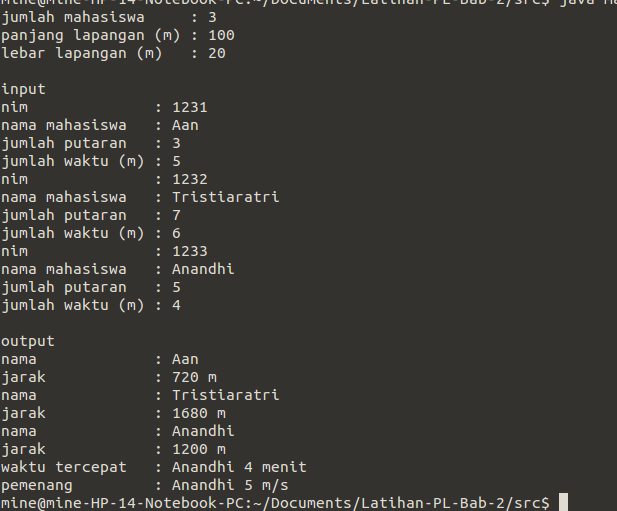
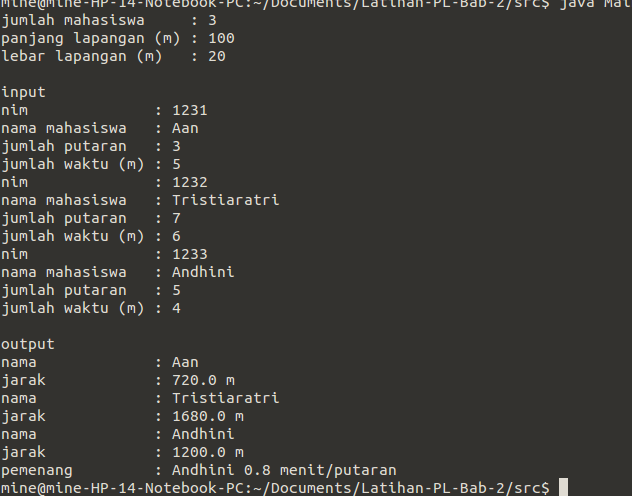
update sourcecode, update screenshot

Changed region(s): [[0.0, 0.1512, 0.9238, 1.0], [0.0, 0.0, 1.0, 0.1512]]

diff --git a/src/Mahasiswa.java b/src/Mahasiswa.java
@@ -1,121 +1,54 @@
 public class Mahasiswa{
-	private int jumlah_mahasiswa;
-	private String[] nama_mahasiswa = new String[1000];
-	private long[] nim = new long[1000];
-	private int[] jumlahPutaran = new int[1000];
-	private int[] jumlahWaktu = new int[1000];
-<<<<<<< HEAD
-    private final int[] jarak = new int[1000];
-    private final int[] kecepatan = new int[1000];
-	private int cekWaktu;
-	private int cekKecepatan;
-	
-	public Mahasiswa(String[] nama, long[] nim, int[] putaran, int[] waktu){
+    private int jumlah_mahasiswa;       
+    private String[] nama_mahasiswa = new String[1000];
+    private long[] nim = new long[1000];
+    private double[] jumlahPutaran = new double[1000];
+    private double[] jumlahWaktu = new double[1000];
+    private double[] jarak = new double[1000];
+	/*private double[] kecepatan = new double[1000];*/
+    private double[] waktuTercepat = new double[1000];
+    private double cekWaktu;
+    
+    public Mahasiswa(String[] nama, long[] nim, double[] putaran, double[] waktu){
         nama_mahasiswa = nama;
         this.nim = nim;
         jumlahPutaran = putaran;
-		jumlahWaktu = waktu;
-	}
-	public void Jarak(){
+        jumlahWaktu = waktu;
+    }
+    public void Jarak(){
+        for(int i=0; i<nim.length; i++){
+            jarak[i] = Lapangan.getKeliling()*jumlahPutaran[i];
+        }
+    }
+	/*public void kecepatan(){
 		for(int i=0; i<nim.length; i++){
-			jarak[i] = Lapangan.getKeliling()*jumlahPutaran[i];
-		}
-	}
-	public void Kecepatan(){
-		for(int i=0; i<nim.length; i++){
-                kecepatan[i] = jarak[i]/(jumlahWaktu[i]*60);
-			}
-	}
-	public String waktuTercepat(){
-		cekWaktu = jumlahWaktu[0];
+            kecepatan[i] = jarak[i]/jumlahWaktu[i];
+        }
+	}*/
+    public void waktuTercepat(){
+        for(int i=0; i<nim.length; i++){
+            waktuTercepat[i] = jumlahWaktu[i]/jumlahPutaran[i];
+        }
+    }
+    public String pemenang(){
+        cekWaktu = waktuTercepat[0];
 		String cek = "";
         for(int i=0; i<nim.length; i++){
-			if(jumlahWaktu[i]<cekWaktu){
-				cekWaktu = jumlahWaktu[i];
-                if(jumlahWaktu[i]==cekWaktu){
-					cek = nama_mahasiswa[i]; 
-				}
-            }
-		}
-		return cek;
-	}
-	public String pemenang(){
-		cekKecepatan = kecepatan[0];
-        String cek = "";
-        for(int i=0; i<nim.length; i++){
-			if(kecepatan[i]>cekKecepatan){
-                cekKecepatan = kecepatan[i];
-                if(kecepatan[i]==cekKecepatan){
-					cek = nama_mahasiswa[i];
+            if(waktuTercepat[i]<cekWaktu){
+                cekWaktu = waktuTercepat[i];
+                if(waktuTercepat[i]==cekWaktu){
+                    cek = nama_mahasiswa[i]; 
                 }
             }
         }
         return cek;
     }
-	public void displayData(){
+    public void displayData(){
         for(int i=0; i<nim.length; i++){
-			System.out.println("nama             : "+nama_mahasiswa[i]);
+            System.out.println("nama             : "+nama_mahasiswa[i]);
             System.out.println("jarak            : "+jarak[i]+" m");
         }
-        System.out.println("waktu tercepat   : "+waktuTercepat()+" "+cekWaktu+" menit");
-		System.out.println("pemenang         : "+pemenang()+" "+cekKecepatan+" m/s");
-	}
+        System.out.println("pemenang         : "+pemenang()+" "+cekWaktu+" menit/putaran");
+    }
 	
 }
-=======
-        private final int[] jarak = new int[1000];
-        private final int[] kecepatan = new int[1000];
-	
-	public Mahasiswa(String[] nama, long[] nim, int[] putaran, int[] waktu){
-            nama_mahasiswa = nama;
-            this.nim = nim;
-            jumlahPutaran = putaran;
-            jumlahWaktu = waktu;
-	}
-	public void Jarak(){
-            for(int i=0; i<nim.length; i++){
-                jarak[i] = Lapangan.getKeliling()*jumlahPutaran[i];
-            }
-	}
-        public void Kecepatan(){
-            for(int i=0; i<nim.length; i++){
-                kecepatan[i] = jarak[i]/jumlahWaktu[i];
-            }
-        }
-        public String waktuTercepat(){
-            int cek = jumlahWaktu[0];
-            String cek2 = "";
-            for(int i=0; i<nim.length; i++){
-                if(jumlahWaktu[i]<cek){
-                    cek = jumlahWaktu[i];
-                    if(jumlahWaktu[i]==cek){
-                       cek2 = nama_mahasiswa[i]; 
-                    }
-                }
-            }
-            return cek2;
-        }
-        public String pemenang(){
-            int cek = kecepatan[0];
-            String cek2 = "";
-            for(int i=0; i<nim.length; i++){
-                if(kecepatan[i]>cek){
-                    cek = kecepatan[i];
-                    if(kecepatan[i]==cek){
-                        cek2 = nama_mahasiswa[1];
-                    }
-                }
-            }
-            return cek2;
-        }
-	public void displayData(){
-            for(int i=0; i<nim.length; i++){
-                System.out.println("nama            : "+nama_mahasiswa[i]);
-                System.out.println("jarak           : "+jarak[i]);
-            }
-            System.out.println("waktu tercepat  : "+waktuTercepat());
-            System.out.println("pemenang        : "+pemenang());
-	}
-		
-}
->>>>>>> 8ad04bca624a7c9d5d0246be0e42f95657db7afc

diff --git a/src/MainMahasiswa.java b/src/MainMahasiswa.java
@@ -3,29 +3,17 @@ import java.util.Scanner;
 public class MainMahasiswa{
     public static void main(String[] args){
     	Scanner in = new Scanner(System.in);
-<<<<<<< HEAD
 	System.out.print("jumlah mahasiswa     : ");
 	int jm = in.nextInt();
 	System.out.print("panjang lapangan (m) : ");
 	Lapangan.setPanjang(in.nextInt());
 	System.out.print("lebar lapangan (m)   : ");
-=======
-	System.out.print("jumlah mahasiswa : ");
-	int jm = in.nextInt();
-	System.out.print("panjang lapangan : ");
-	Lapangan.setPanjang(in.nextInt());
-	System.out.print("lebar lapangan   : ");
->>>>>>> 8ad04bca624a7c9d5d0246be0e42f95657db7afc
 	Lapangan.setLebar(in.nextInt());
 	in.nextLine();
         String[] nama = new String[jm];
         long[] nim = new long[jm];
-        int[] jumlahputaran = new int[jm], jumlahwaktu = new int[jm];
-<<<<<<< HEAD
+        double[] jumlahputaran = new double[jm], jumlahwaktu = new double[jm];
 	System.out.println("\ninput ");
-=======
-	System.out.println("input ");
->>>>>>> 8ad04bca624a7c9d5d0246be0e42f95657db7afc
 	for(int i=0; i<jm; i++){
             System.out.print("nim              : ");
             nim[i] = in.nextLong();
@@ -33,26 +21,16 @@ public class MainMahasiswa{
             System.out.print("nama mahasiswa   : ");
             nama[i] = in.nextLine();
             System.out.print("jumlah putaran   : ");
-            jumlahputaran[i] = in.nextInt();
-<<<<<<< HEAD
+            jumlahputaran[i] = in.nextDouble();
             System.out.print("jumlah waktu (m) : ");
-=======
-            System.out.print("jumlah waktu     : ");
->>>>>>> 8ad04bca624a7c9d5d0246be0e42f95657db7afc
-            jumlahwaktu[i] = in.nextInt();
+            jumlahwaktu[i] = in.nextDouble();
             in.nextLine();	
 	}
 	Mahasiswa mhs = new Mahasiswa(nama, nim, jumlahputaran, jumlahwaktu);
         mhs.Jarak();
-        mhs.Kecepatan();
-<<<<<<< HEAD
+        /*mhs.kecepatan();*/
+        mhs.waktuTercepat();
         System.out.println("\noutput ");
         mhs.displayData();
     }
 }
-=======
-        System.out.println("output ");
-        mhs.displayData();
-    }
-}
->>>>>>> 8ad04bca624a7c9d5d0246be0e42f95657db7afc
